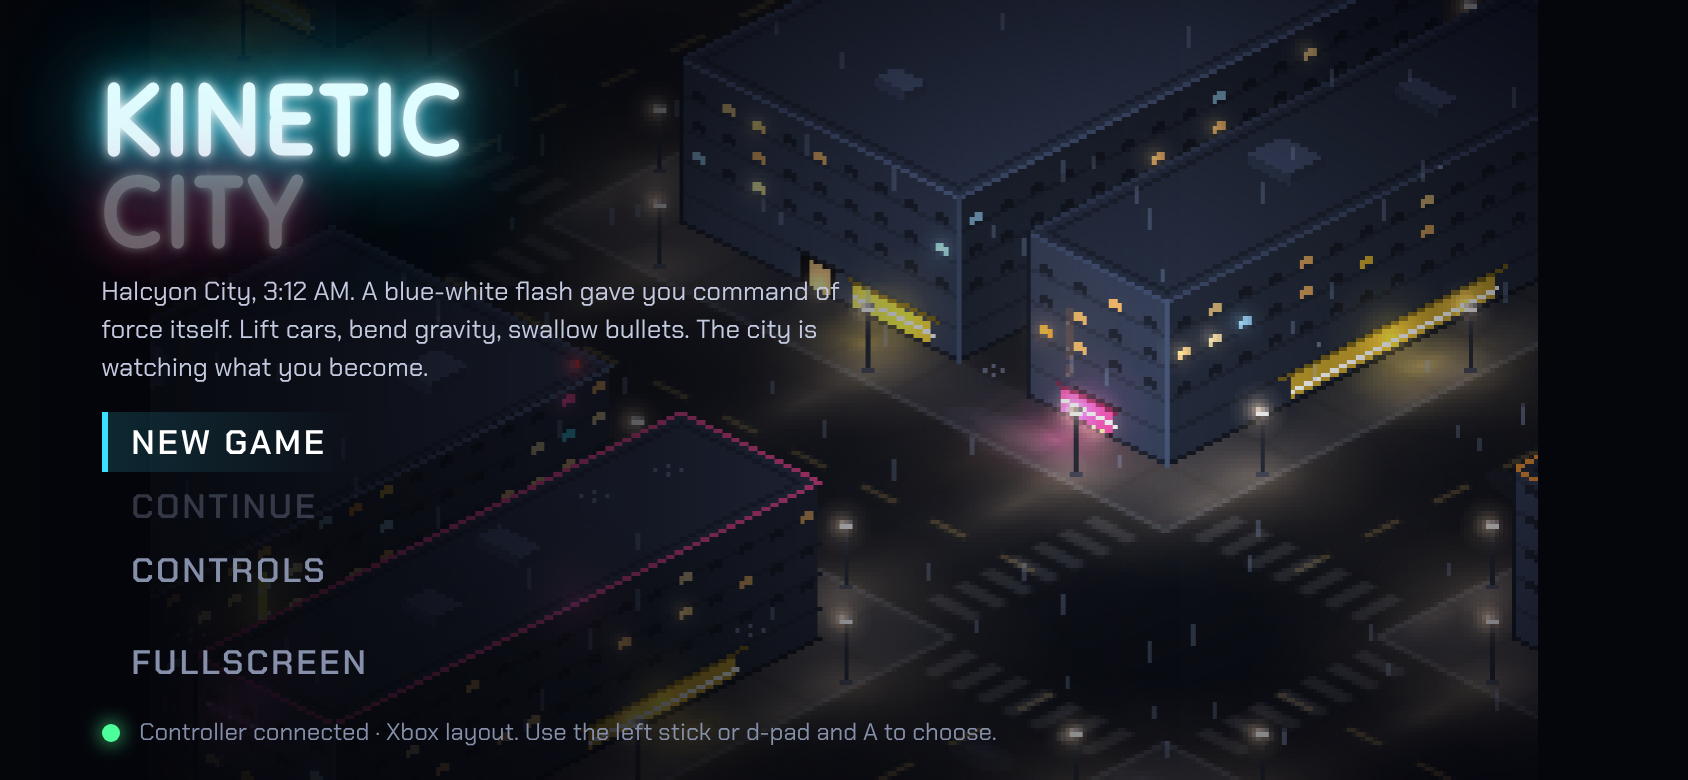
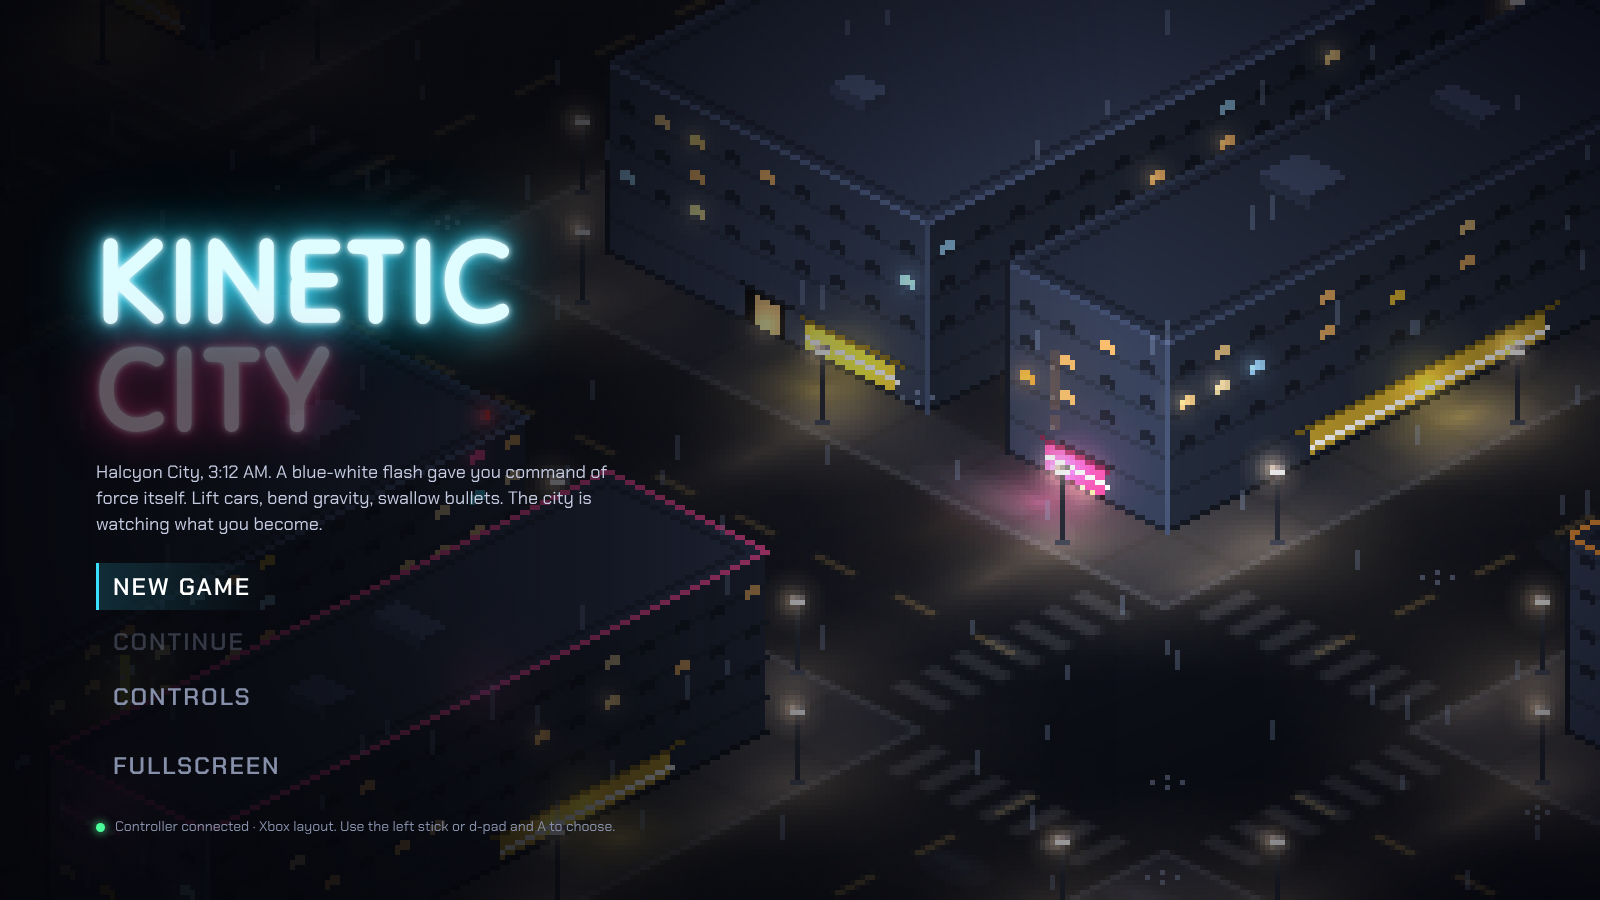
Remove the rotate prompt and orientation lock: this is a PC game
Handoff updated to say so; menu screenshot script now shoots at 1600x900.

Claude-Session: https://claude.ai/code/session_01TQrqJid8SEs5fJFtrpg3VS

diff --git a/dist/kinetic_city.html b/dist/kinetic_city.html
@@ -27,8 +27,6 @@
 *{box-sizing:border-box}
 html,body{margin:0;height:100%;background:var(--bg);overflow:hidden;touch-action:none;user-select:none;-webkit-user-select:none;font-family:var(--font-body);color:var(--ink)}
 #game{position:fixed;display:block}
-#rotate{position:fixed;inset:0;z-index:50;display:none;align-items:center;justify-content:center;text-align:center;background:#000;font-size:22px;padding:24px}
-@media (orientation:portrait) and (pointer:coarse){#rotate{display:flex}}
 #bFull{margin-top:14px}
 .layer{position:fixed;inset:0;display:none;z-index:10}
 .layer.on{display:flex}
@@ -116,7 +114,6 @@ button{font-family:inherit;color:inherit}
 </head>
 <body>
 <canvas id="game"></canvas>
-<div id="rotate">Turn your phone sideways.<br>Kinetic City is played in landscape.</div>
 
 <div id="title" class="layer on">
   <h1 class="logo">KINETIC<span>CITY</span></h1>
@@ -4752,7 +4749,7 @@ const UI = (() => {
   function toTitle() { saveGame(); hide('pause'); Audio2.humStop(); G.mode = 'title'; show('title'); $('bCont').disabled = !loadSave(); setFocus($('bNew')); }
   $('bNew').onclick = startNew; $('bCont').onclick = continueGame; $('bCtl').onclick = () => openPause(true);
   $('bResume').onclick = closePause; $('bQuit').onclick = toTitle;
-  const goFull = async () => { try { if (!document.fullscreenElement) await document.documentElement.requestFullscreen(); } catch (e) { } try { await screen.orientation.lock('landscape'); } catch (e) { } };
+  const goFull = async () => { try { if (!document.fullscreenElement) await document.documentElement.requestFullscreen(); } catch (e) { } };
   $('bFull').onclick = goFull; $('bNew').addEventListener('click', goFull); $('bCont').addEventListener('click', goFull);
 
   /* ---------- per-frame ---------- */

diff --git a/test/audit_ui.js b/test/audit_ui.js
@@ -1,11 +1,11 @@
-// Screenshots of every menu and screen, on a phone-sized landscape view with a controller, for visual review.
+// Screenshots of every menu and screen at 1600x900 with a controller, for visual review.
 const { chromium } = require('playwright');
 const path = require('path'), fs = require('fs');
 const ROOT = path.resolve(__dirname, '..'), OUT = process.argv[2] || ROOT + '/screenshots/ui';
 fs.mkdirSync(OUT, { recursive: true });
 (async () => {
   const b = await chromium.launch();
-  const ctx = await b.newContext({ viewport: { width: 844, height: 390 }, hasTouch: true, isMobile: true, deviceScaleFactor: 2 });
+  const ctx = await b.newContext({ viewport: { width: 1600, height: 900 } });
   const p = await ctx.newPage(); const errs = []; p.on('pageerror', e => errs.push(e.message)); p.on('console', m => { if (m.type() === 'error') errs.push('console: ' + m.text()); });
   await p.addInitScript(() => {
     const mkb = () => ({ pressed: false, value: 0 });
@@ -32,8 +32,5 @@ fs.mkdirSync(OUT, { recursive: true });
   await p.evaluate(() => { KC.P.invT = 0; KC.hurt(KC.P, 9999, { by: 'grunt' }); }); await p.waitForTimeout(1500); await shot('10_dead');
   console.log(errs.join('\n') || 'no errors');
   await ctx.close();
-  // portrait phone: rotate prompt
-  const c2 = await b.newContext({ viewport: { width: 390, height: 844 }, hasTouch: true, isMobile: true, deviceScaleFactor: 2 });
-  const p2 = await c2.newPage(); await p2.goto('file://' + ROOT + '/dist/kinetic_city.html'); await p2.waitForTimeout(500); await p2.screenshot({ path: `${OUT}/11_portrait.png` });
   await b.close();
 })();

diff --git a/src/js/13_ui.js b/src/js/13_ui.js
@@ -157,7 +157,7 @@ const UI = (() => {
   function toTitle() { saveGame(); hide('pause'); Audio2.humStop(); G.mode = 'title'; show('title'); $('bCont').disabled = !loadSave(); setFocus($('bNew')); }
   $('bNew').onclick = startNew; $('bCont').onclick = continueGame; $('bCtl').onclick = () => openPause(true);
   $('bResume').onclick = closePause; $('bQuit').onclick = toTitle;
-  const goFull = async () => { try { if (!document.fullscreenElement) await document.documentElement.requestFullscreen(); } catch (e) { } try { await screen.orientation.lock('landscape'); } catch (e) { } };
+  const goFull = async () => { try { if (!document.fullscreenElement) await document.documentElement.requestFullscreen(); } catch (e) { } };
   $('bFull').onclick = goFull; $('bNew').addEventListener('click', goFull); $('bCont').addEventListener('click', goFull);
 
   /* ---------- per-frame ---------- */

diff --git a/src/shell.html b/src/shell.html
@@ -27,8 +27,6 @@
 *{box-sizing:border-box}
 html,body{margin:0;height:100%;background:var(--bg);overflow:hidden;touch-action:none;user-select:none;-webkit-user-select:none;font-family:var(--font-body);color:var(--ink)}
 #game{position:fixed;display:block}
-#rotate{position:fixed;inset:0;z-index:50;display:none;align-items:center;justify-content:center;text-align:center;background:#000;font-size:22px;padding:24px}
-@media (orientation:portrait) and (pointer:coarse){#rotate{display:flex}}
 #bFull{margin-top:14px}
 .layer{position:fixed;inset:0;display:none;z-index:10}
 .layer.on{display:flex}
@@ -116,7 +114,6 @@ button{font-family:inherit;color:inherit}
 </head>
 <body>
 <canvas id="game"></canvas>
-<div id="rotate">Turn your phone sideways.<br>Kinetic City is played in landscape.</div>
 
 <div id="title" class="layer on">
   <h1 class="logo">KINETIC<span>CITY</span></h1>

diff --git a/HANDOFF.md b/HANDOFF.md
@@ -1,6 +1,6 @@
 # Kinetic City: handoff brief
 
-A prototype of a top-down superhero/supervillain game inspired by inFamous, GTA 1/2 and Retro City Rampage. The core is telekinesis that turns physics into damage, plus karma and gang districts. It's an isometric pixel-art city that you play on a TV or with a controller.
+A prototype of a top-down superhero/supervillain game inspired by inFamous, GTA 1/2 and Retro City Rampage. The core is telekinesis that turns physics into damage, plus karma and gang districts. It's an isometric pixel-art city. **It is a PC game** (played on a computer, with a controller or keyboard and mouse); it is not a phone game.
 
 **Status:** prototype. Gameplay comes first, and there is no story yet.
 
@@ -13,7 +13,7 @@ A prototype of a top-down superhero/supervillain game inspired by inFamous, GTA 
 3. **Send a screenshot of every visual change.** The user often can't test personally. Take screenshots with Playwright and send them, along with the rebuilt `kinetic_city.html`.
 4. **Work one step at a time and show results** before moving on.
 5. **No story.** The placeholder story was removed on purpose, and the user hasn't written the real one. Don't add story content or dialogue, and don't run or mention full-story playthroughs.
-6. **Controller first.** The user plays the downloaded HTML file on a phone with a Razer Kishi controller. It must work with any controller that uses the standard Gamepad API mapping. Keyboard and mouse are a fallback.
+6. **PC game, controller first.** This is a PC game; design everything (UI, menus, settings, screen sizes) for a computer. The user only *tests* the downloaded HTML file on a phone with a Razer Kishi controller, so never add phone-specific features (no touch controls, no orientation prompts, no mobile layouts). It must work with any controller that uses the standard Gamepad API mapping, plus keyboard and mouse.
 7. **Listen to the words used.** Do exactly what was asked. When something is ambiguous, ask a short question instead of guessing large.
 8. **Keep replies short and concrete:** what changed, the screenshot, the file, the next step.
 
@@ -23,7 +23,7 @@ A prototype of a top-down superhero/supervillain game inspired by inFamous, GTA 
 
 ### Look
 - **Art:** isometric pixel art drawn into a **320×180 art canvas** and scaled up with hard pixels (5× on a 1600×900 frame).
-- **Frame:** fixed 16:9 and letterboxed. Touch devices in portrait get a "rotate" prompt.
+- **Frame:** fixed 16:9 and letterboxed.
 - **Setting:** a neon night city in the rain.
 - **Pixel art:** buildings (lit/dark windows, shopfronts, neon signs, doors, rooftop clutter), hideouts, characters (8 facings, 4-frame walk), vehicles, props and combat effects.
 - **Soft on purpose:** glows and light pools.
@@ -104,7 +104,7 @@ It all becomes one script, so **a later `function` declaration replaces an earli
 
 | File | What it does |
 |---|---|
-| `shell.html` | HTML/CSS shell, title/pause/dialog overlays, rotate prompt |
+| `shell.html` | HTML/CSS shell, title/pause/dialog overlays |
 | `01_core.js` | constants (grid, `IMPACT_K`, `DCOLS`, `GATE_TX`), math/colour helpers, camera object |
 | `02_input.js` | Gamepad API (standard mapping) + keyboard/mouse, glyphs, rumble, settings |
 | `03_audio.js` | synthesized sound effects and music |
